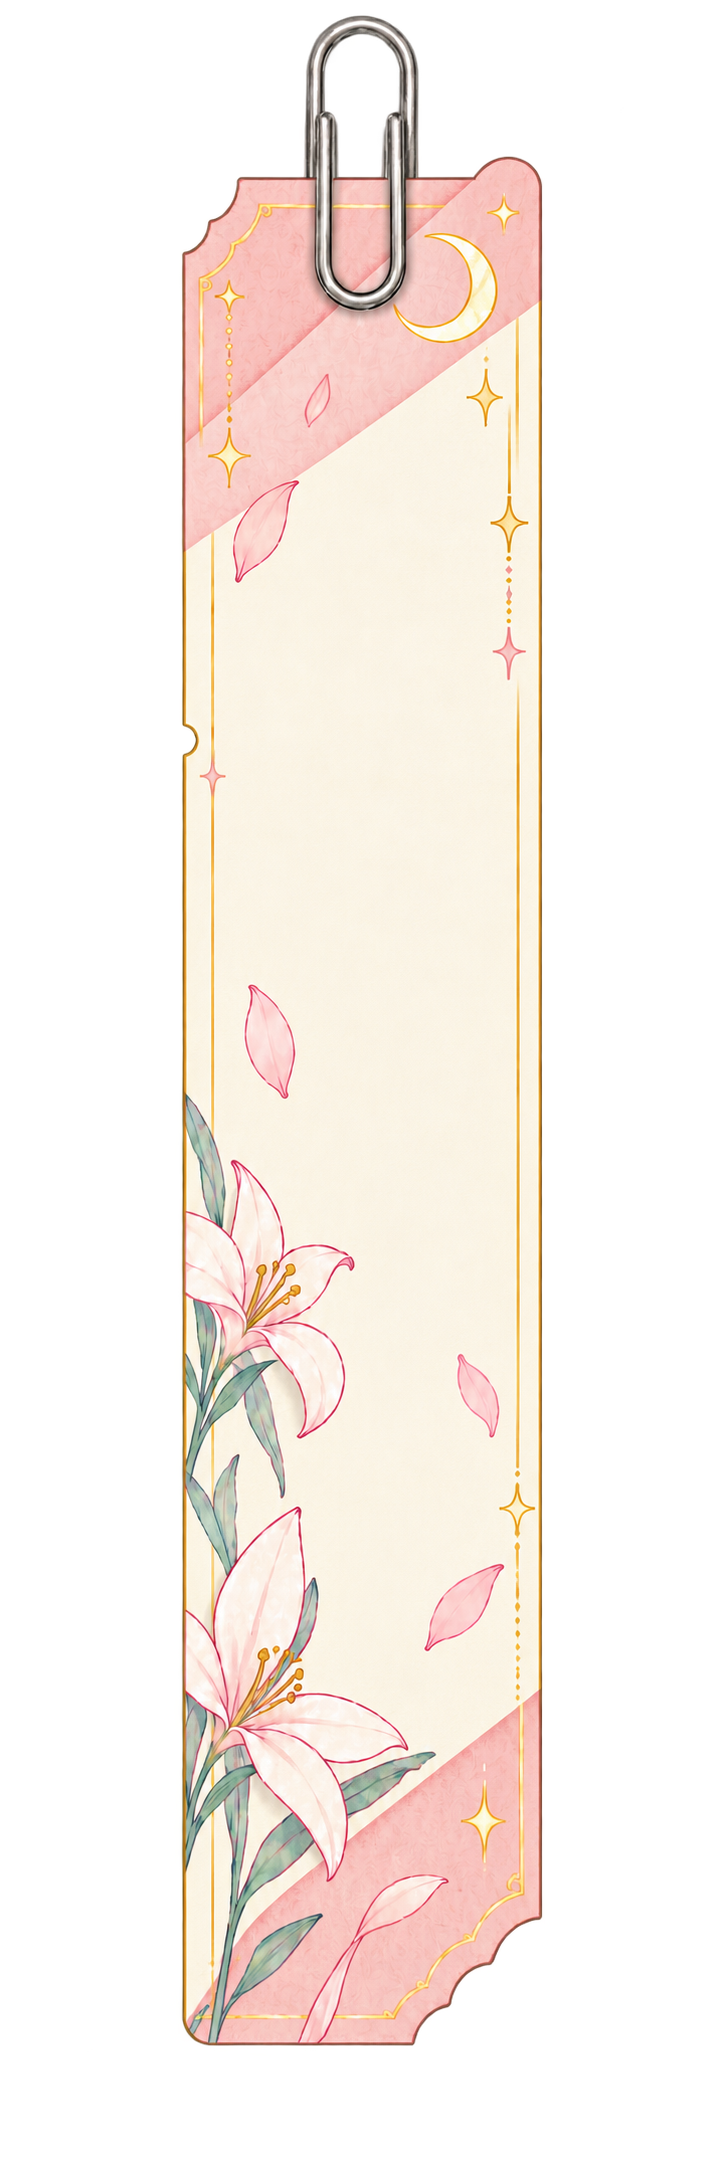
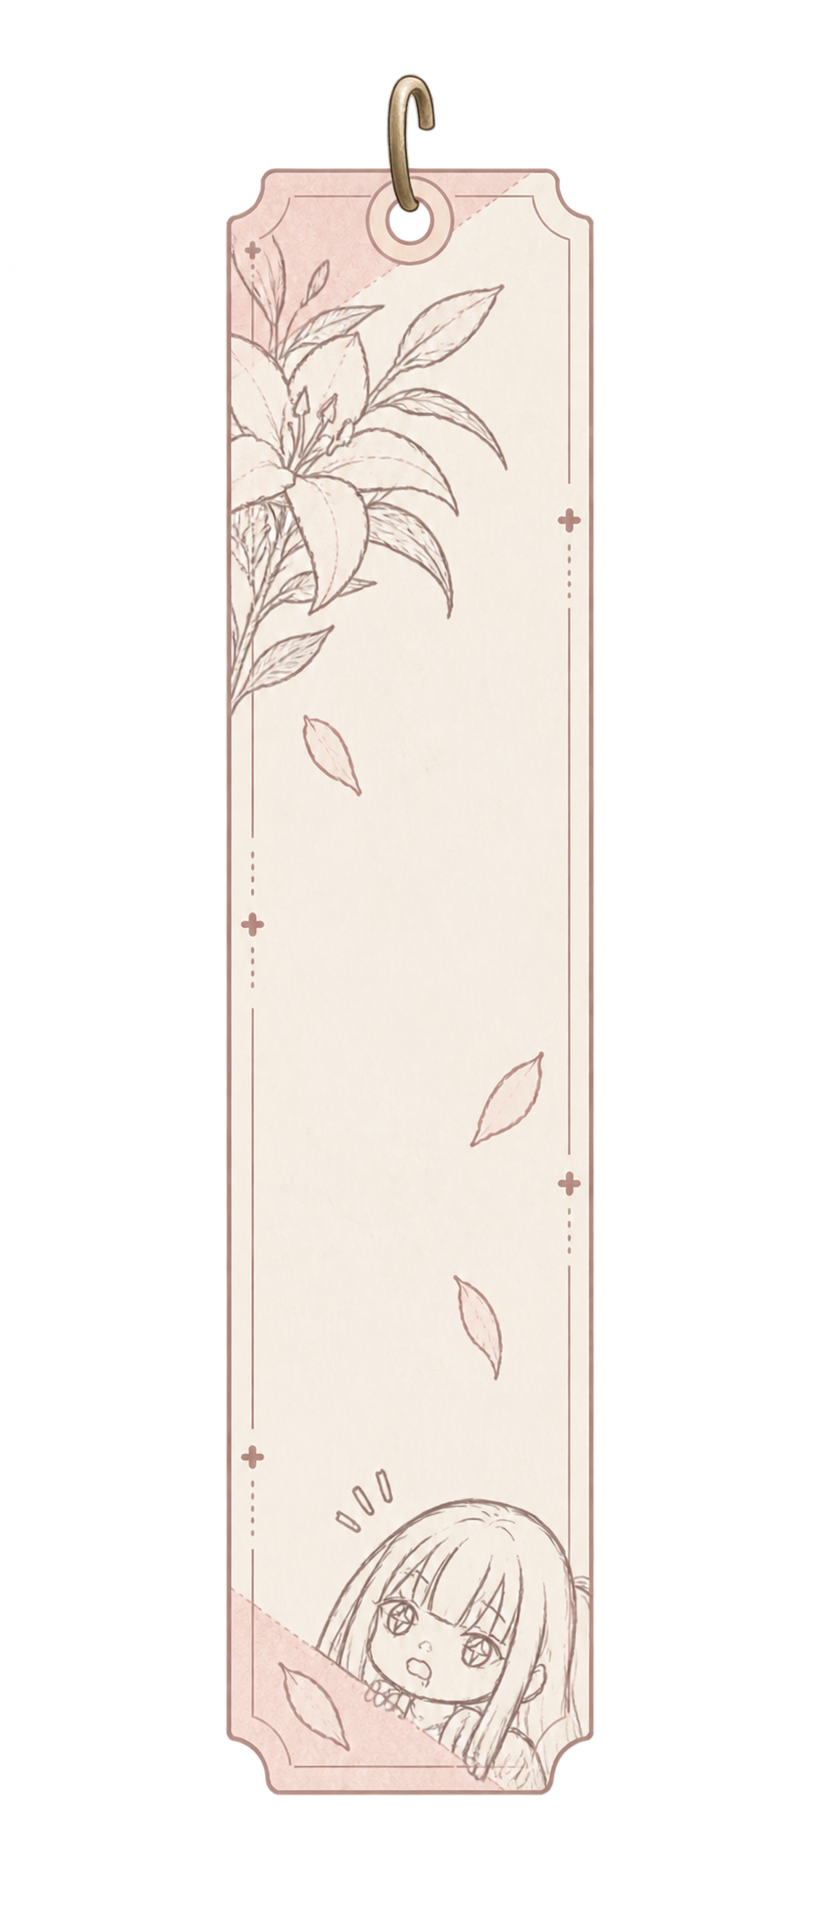
feat(书架): 接入手绘书签并优化文字排版

diff --git a/components/common/ShelfBookmark.vue b/components/common/ShelfBookmark.vue
@@ -1,49 +1,91 @@
 <script setup lang="ts">
-const props = defineProps<{ title: string; author?: string | null; to: string }>();
+const props = defineProps<{
+	title: string;
+	author?: string | null;
+	to: string;
+}>();
+// 使用作品链接稳定分配款式，保证 SSR、刷新和列表重排时保持一致。
+const artworkSrc = computed(() => {
+	let hash = 0;
+	for (const character of props.to)
+		hash = (hash * 31 + (character.codePointAt(0) ?? 0)) >>> 0;
+	return `/bookmarks/art-${String((hash % 13) + 1).padStart(2, '0')}.png`;
+});
 const characters = computed(() => Array.from(props.title));
-const accentIndex = computed(() => Math.floor(characters.value.length / 2));
 const surface = useTemplateRef<HTMLElement>('surface');
 let motion: Animation | undefined;
 const setFloating = (floating: boolean) => {
-	const paper = surface.value?.querySelector<HTMLElement>('.bookmark-layer--paper');
+	const paper = surface.value?.querySelector<HTMLElement>(
+		'.bookmark-layer--paper',
+	);
 	if (!paper) return;
 	const reduced = window.matchMedia('(prefers-reduced-motion: reduce)').matches;
-	if (floating && (!window.matchMedia('(hover: hover)').matches || reduced)) return;
+	if (floating && (!window.matchMedia('(hover: hover)').matches || reduced))
+		return;
 	// 先保存当前姿态，移开或再次进入时从当前位置接续。
 	const current = getComputedStyle(paper).transform;
 	motion?.cancel();
-	motion = paper.animate(floating ? [
-		{ transform: current },
-		{ transform: 'skewX(1.5deg) rotate(-2deg)', offset: .3 },
-		{ transform: 'skewX(-1deg) rotate(1.4deg)', offset: .7 },
-		{ transform: 'skewX(0deg) rotate(0deg)' },
-	] : [{ transform: current }, { transform: 'skewX(0deg) rotate(0deg)' }], {
-		duration: reduced ? 0 : floating ? 3000 : 650,
-		iterations: floating ? Infinity : 1,
-		easing: 'ease-in-out',
-		fill: 'forwards',
-	});
+	motion = paper.animate(
+		floating
+			? [
+					{ transform: current },
+					{ transform: 'skewX(1.5deg) rotate(-2deg)', offset: 0.3 },
+					{ transform: 'skewX(-1deg) rotate(1.4deg)', offset: 0.7 },
+					{ transform: 'skewX(0deg) rotate(0deg)' },
+				]
+			: [{ transform: current }, { transform: 'skewX(0deg) rotate(0deg)' }],
+		{
+			duration: reduced ? 0 : floating ? 3000 : 650,
+			iterations: floating ? Infinity : 1,
+			easing: 'ease-in-out',
+			fill: 'forwards',
+		},
+	);
 };
 onBeforeUnmount(() => motion?.cancel());
 </script>
 
 <template>
-	<NuxtLink class="bookmark" :to="props.to" :title="`${props.title} · ${props.author || '未知作者'}`"
+	<NuxtLink
+		class="bookmark"
+		:to="props.to"
+		:title="`${props.title} · ${props.author || '未知作者'}`"
 		:aria-label="`${props.title} · ${props.author || '未知作者'}`"
-		@pointerenter="setFloating(true)" @pointerleave="setFloating(false)">
+		@pointerenter="setFloating(true)"
+		@pointerleave="setFloating(false)"
+	>
 		<span ref="surface" class="bookmark-surface" aria-hidden="true">
-		<span v-for="layer in ['clip', 'paper']" :key="layer" class="bookmark-layer" :class="`bookmark-layer--${layer}`">
-		<span class="bookmark-body">
-			<span class="bookmark-art" aria-hidden="true">
-				<img src="/bookshelf-bookmark-pink.png" alt="" width="724" height="2171" />
+			<span
+				v-for="layer in ['clip', 'paper']"
+				:key="layer"
+				class="bookmark-layer"
+				:class="`bookmark-layer--${layer}`"
+			>
+				<span class="bookmark-body">
+					<span class="bookmark-art" aria-hidden="true">
+						<span class="bookmark-image">
+							<img src="/bookmarks/base.png" alt="" width="820" height="1918" />
+							<img
+								class="bookmark-character"
+								:src="artworkSrc"
+								alt=""
+								width="600"
+								height="600"
+							/>
+						</span>
+					</span>
+					<span class="bookmark-title-area">
+						<span class="bookmark-title"
+							><span
+								v-for="(character, index) in characters"
+								:key="index"
+								>{{ character }}</span
+							></span
+						>
+					</span>
+					<span class="bookmark-author">{{ props.author || '未知作者' }}</span>
+				</span>
 			</span>
-			<span class="bookmark-title-area">
-				<span class="bookmark-title"><span v-for="(character, index) in characters" :key="index"
-					:class="{ 'bookmark-title-accent': index === accentIndex }">{{ character }}</span></span>
-			</span>
-			<span class="bookmark-author">{{ props.author || '未知作者' }}</span>
-		</span>
-		</span>
 		</span>
 	</NuxtLink>
 </template>
@@ -67,34 +109,53 @@ onBeforeUnmount(() => motion?.cancel());
 	inset: 0;
 	transform-origin: 50% 18%;
 }
-.bookmark-layer--clip { clip-path: inset(0 0 82% 0); }
-.bookmark-layer--paper { clip-path: inset(18% -50% -10% -50%); }
+.bookmark-layer--clip {
+	clip-path: inset(0 0 82% 0);
+}
+.bookmark-layer--paper {
+	clip-path: inset(18% -50% -10% -50%);
+}
 .bookmark-body {
 	position: absolute;
 	inset: 0;
 }
-.bookmark:focus-visible { outline: 2px solid #a82355; outline-offset: 4px; }
+.bookmark:focus-visible {
+	outline: 2px solid #a82355;
+	outline-offset: 4px;
+}
 .bookmark-art {
 	position: absolute;
 	inset: 0;
 	overflow: hidden;
 }
-.bookmark-art img {
+.bookmark-image {
 	position: absolute;
 	top: 0;
 	left: 50%;
 	transform: translateX(-50%);
-	width: auto;
-	max-width: none;
+	aspect-ratio: 820 / 1918;
 	height: 100%;
+}
+.bookmark-image img {
+	display: block;
+	width: 100%;
+	height: 100%;
+	max-width: none;
+}
+.bookmark-image .bookmark-character {
+	position: absolute;
+	left: 31.707317%;
+	top: 76.642336%;
+	width: 36.585366%;
+	height: 15.641293%;
 }
 .bookmark-title-area {
 	position: absolute;
-	top: 23%;
-	left: 50%;
+	top: 26%;
+	left: 38%;
 	transform: translateX(-50%);
-	width: 66%;
-	height: 42%;
+	width: 40%;
+	height: 50%;
 	display: flex;
 	flex-direction: row;
 	justify-content: center;
@@ -102,10 +163,11 @@ onBeforeUnmount(() => motion?.cancel());
 	gap: 2px;
 	overflow: hidden;
 }
-.bookmark-title, .bookmark-author {
+.bookmark-title,
+.bookmark-author {
 	font-family: 'Kaiti SC', 'STKaiti', 'KaiTi', 'Yu Mincho', serif;
 	font-weight: 500;
-	color: #263b55;
+	color: #243247;
 	text-shadow: none;
 	writing-mode: vertical-rl;
 	text-orientation: upright;
@@ -119,21 +181,20 @@ onBeforeUnmount(() => motion?.cancel());
 	overflow: hidden;
 	text-overflow: ellipsis;
 }
-.bookmark-title-accent { color: #a82355; }
 .bookmark-author {
 	position: absolute;
-	top: 66%;
-	left: 50%;
+	top: 54%;
+	left: 73%;
 	transform: translateX(-50%);
-	max-height: 15%;
-	font-size: 12px;
-	font-weight: 700;
+	max-height: 21%;
+	font-size: 14px;
+	font-weight: 600;
 	line-height: 1;
-	letter-spacing: 1px;
+	letter-spacing: 0;
 	white-space: nowrap;
 	overflow: hidden;
 	text-overflow: ellipsis;
-	color: #263b55;
-	text-shadow: 0 0 2px #fffaf2, 0 0 4px #fffaf2;
+	color: #243247;
+	text-shadow: none;
 }
 </style>

diff --git a/components/common/BookshelfDisplay.vue b/components/common/BookshelfDisplay.vue
@@ -404,7 +404,7 @@ const bookUrl = (work: ShelfWork) =>
 		linear-gradient(95deg, #eedec0, #f6e9cc 35%, #e9d8b7 75%, #f3e5c6);
 	border-radius: 0;
 	border-top: 0;
-	padding-top: 38px !important;
+	padding-top: 22px !important;
 	padding-bottom: 100px !important;
 	background:
 		repeating-linear-gradient(
@@ -422,7 +422,7 @@ const bookUrl = (work: ShelfWork) =>
 	top: 0;
 	left: 0;
 	right: 0;
-	height: 38px;
+	height: 22px;
 	background: var(--wood);
 }
 .bookshelf .cards-grid {
@@ -524,7 +524,7 @@ const bookUrl = (work: ShelfWork) =>
 .shelf-board {
 	position: relative;
 	z-index: 1;
-	height: 56px;
+	height: 22px;
 	background: var(--wood);
 	border-top: 2px solid #f9eed9;
 	box-shadow: 0 16px 22px rgba(89, 59, 39, 0.14);
